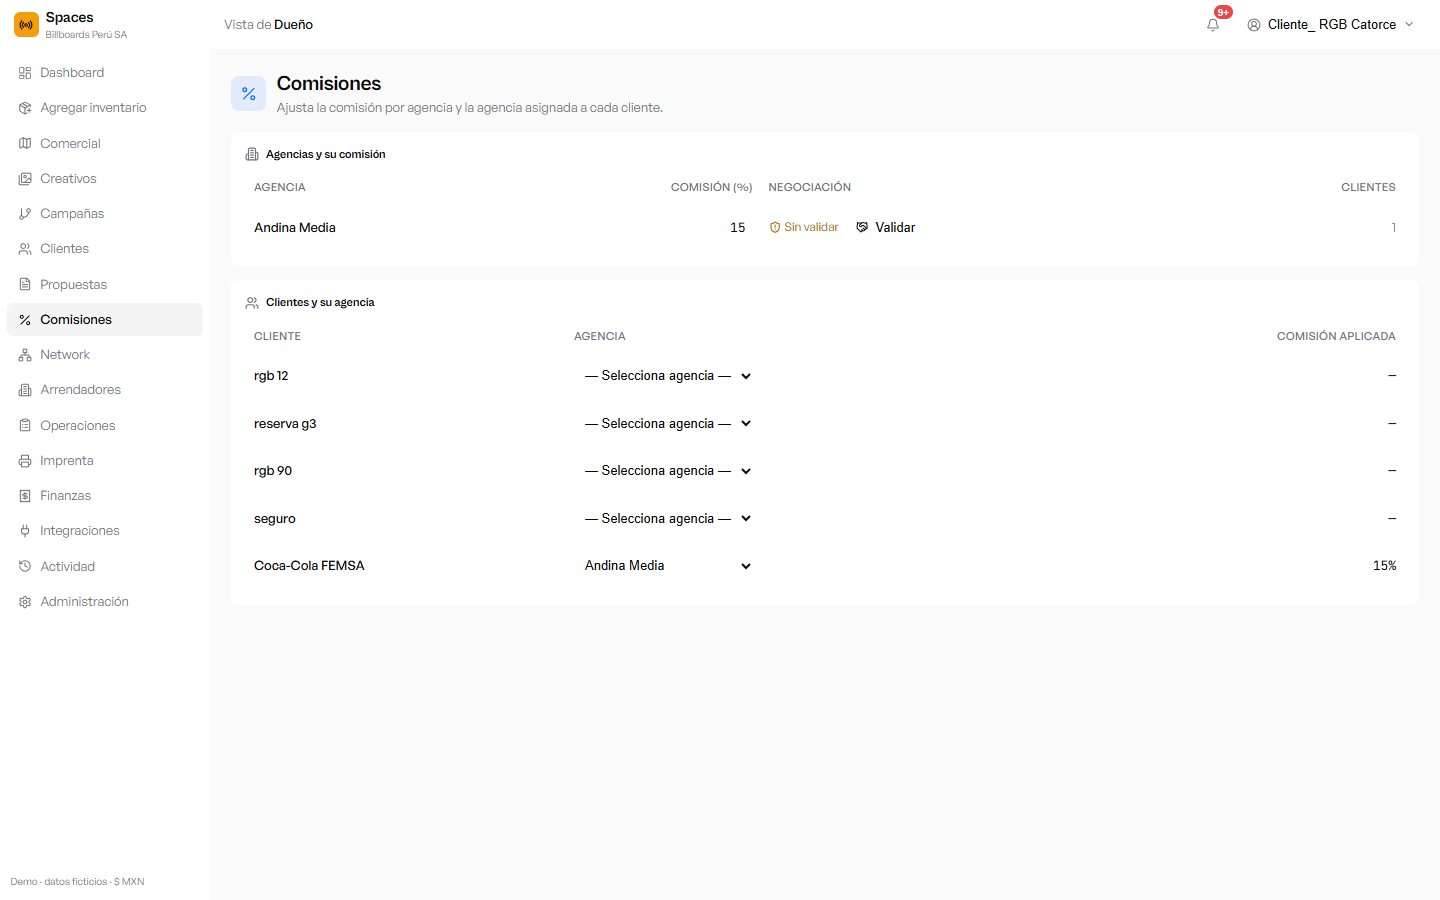
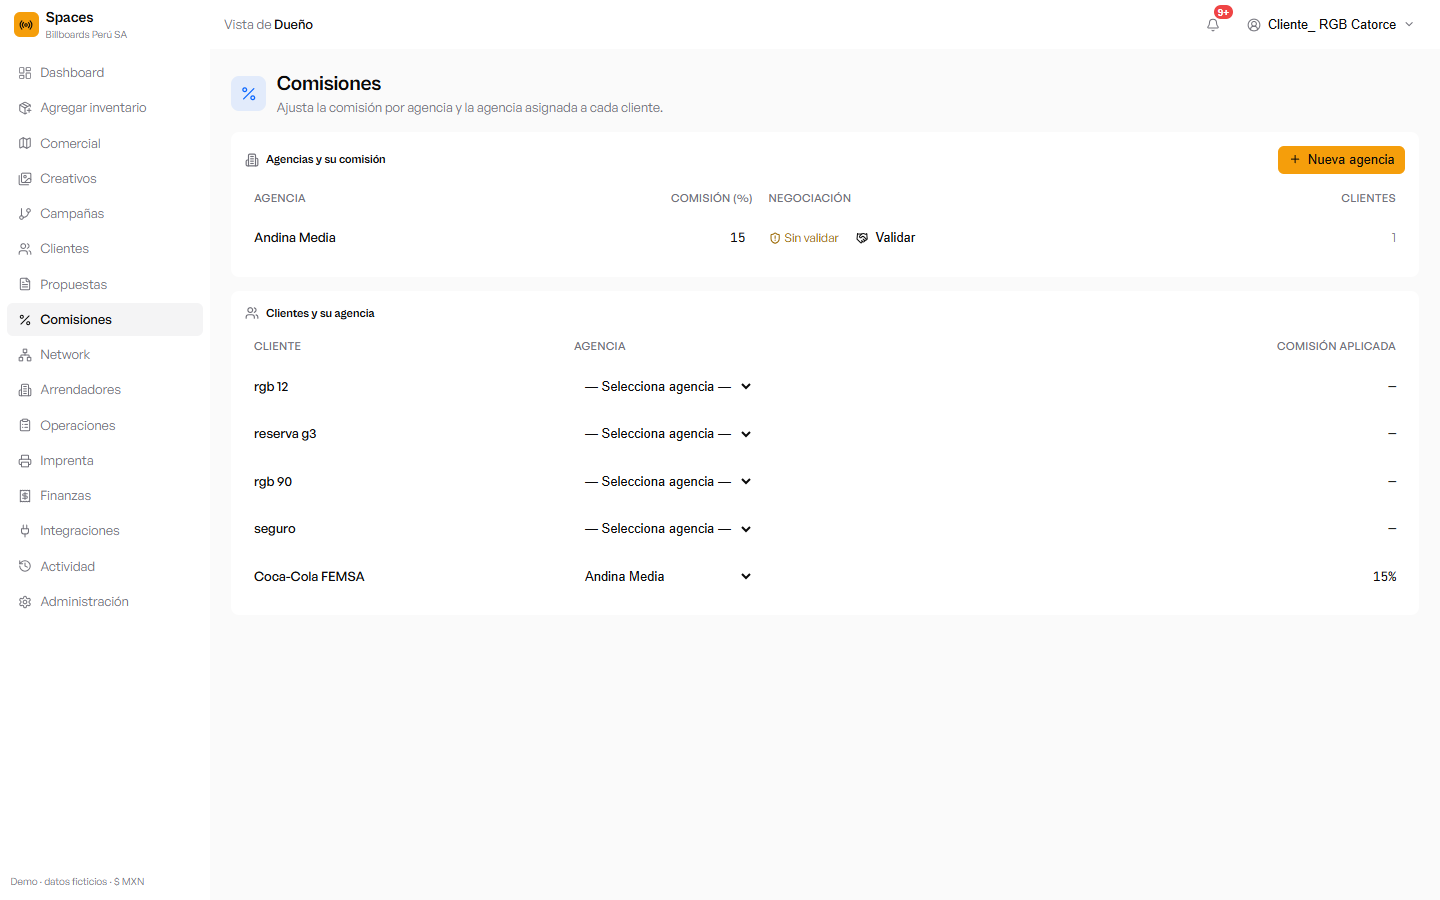
feat(demo): alta de agencia desde la pantalla de Comisiones
Boton 'Nueva agencia' + dialogo: nombre, comision (%) y negociacion (si/no +
validada + nota). Crea un cliente tipo AGENCIA via crearClienteApi. Manual y
captura actualizados.

diff --git a/apps/web/app/demo/(shell)/comisiones/page.tsx b/apps/web/app/demo/(shell)/comisiones/page.tsx
@@ -1,17 +1,20 @@
 'use client'
 
 import { useEffect, useState } from 'react'
-import { Percent, Handshake, ShieldCheck, ShieldAlert, Building2, Users } from 'lucide-react'
+import { Percent, Handshake, ShieldCheck, ShieldAlert, Building2, Users, Plus } from 'lucide-react'
 import { Card, CardHeader, CardTitle, CardContent } from '@/components/demo/ui/Card'
 import { Button } from '@/components/demo/ui/Button'
+import { Modal } from '@/components/demo/ui/Modal'
 import { usePuede } from '@/components/demo/shell/SesionContext'
 import { useClientes, type Cliente } from '@/lib/data/client'
-import { actualizarClienteApi } from '@/lib/data/estado-api'
+import { actualizarClienteApi, crearClienteApi } from '@/lib/data/estado-api'
 
 const inputCls =
   'h-8 w-20 rounded border border-border-strong bg-surface px-2 text-right text-[13px] text-ink outline-none focus-visible:ring-2 focus-visible:ring-accent'
 const selectCls =
   'h-8 rounded border border-border-strong bg-surface px-2 text-[13px] text-ink outline-none focus-visible:ring-2 focus-visible:ring-accent'
+const fieldCls =
+  'h-9 w-full rounded border border-border-strong bg-surface px-3 text-[13px] text-ink outline-none focus-visible:ring-2 focus-visible:ring-accent'
 
 // Pantalla de ajuste de comisiones: la comisión es por AGENCIA. Aquí se ajusta
 // la comisión de cada agencia (y su negociación) y se asigna la agencia a cada
@@ -19,6 +22,7 @@ const selectCls =
 export default function ComisionesPage() {
   const clientes = useClientes()
   const puede = usePuede('comercial', 'crear')
+  const [nuevaOpen, setNuevaOpen] = useState(false)
 
   if (!clientes) {
     return <div className="h-64 w-full animate-pulse rounded-md bg-surface-2" />
@@ -43,14 +47,21 @@ export default function ComisionesPage() {
 
       {/* Agencias: comisión + negociación */}
       <Card>
-        <CardHeader className="flex flex-row items-center gap-2">
-          <Building2 className="h-4 w-4 text-muted" />
-          <CardTitle>Agencias y su comisión</CardTitle>
+        <CardHeader className="flex flex-row items-center justify-between gap-2">
+          <div className="flex items-center gap-2">
+            <Building2 className="h-4 w-4 text-muted" />
+            <CardTitle>Agencias y su comisión</CardTitle>
+          </div>
+          {puede && (
+            <Button size="sm" onClick={() => setNuevaOpen(true)}>
+              <Plus className="h-3.5 w-3.5" /> Nueva agencia
+            </Button>
+          )}
         </CardHeader>
         <CardContent>
           {agencias.length === 0 ? (
             <p className="text-[13px] text-muted">
-              No hay clientes tipo «Agencia». Crea uno en Clientes para ajustar su comisión.
+              Aún no hay agencias. Usa «Nueva agencia» para crear una.
             </p>
           ) : (
             <div className="overflow-x-auto">
@@ -108,7 +119,100 @@ export default function ComisionesPage() {
           )}
         </CardContent>
       </Card>
+
+      {nuevaOpen && <NuevaAgenciaDialog onClose={() => setNuevaOpen(false)} />}
     </div>
+  )
+}
+
+// ─── Alta de agencia (cliente tipo AGENCIA) ──────────────────────────────────
+function NuevaAgenciaDialog({ onClose }: { onClose: () => void }) {
+  const [nombre, setNombre] = useState('')
+  const [comision, setComision] = useState('0')
+  const [tieneNeg, setTieneNeg] = useState(false)
+  const [negValidada, setNegValidada] = useState(false)
+  const [nota, setNota] = useState('')
+  const [guardando, setGuardando] = useState(false)
+  const [error, setError] = useState<string | null>(null)
+
+  async function guardar() {
+    if (!nombre.trim()) return
+    setGuardando(true)
+    setError(null)
+    try {
+      await crearClienteApi({
+        nombre: nombre.trim(),
+        tipo: 'AGENCIA',
+        comisionAgenciaPct: Number(comision) || 0,
+        tieneNegociacion: tieneNeg,
+        negociacionValidada: tieneNeg ? negValidada : false,
+        negociacionNota: tieneNeg ? (nota.trim() || null) : null,
+      })
+      onClose()
+    } catch (e) {
+      setError(e instanceof Error ? e.message : 'No se pudo crear la agencia')
+      setGuardando(false)
+    }
+  }
+
+  return (
+    <Modal
+      open
+      onOpenChange={(v) => !v && onClose()}
+      title="Nueva agencia"
+      subtitle="Alta de cliente tipo Agencia con su comisión"
+      footer={
+        <div className="flex items-center justify-between">
+          {error ? <span className="text-[12px] text-error">{error}</span> : <span />}
+          <div className="flex gap-2">
+            <Button variant="secondary" size="sm" onClick={onClose}>Cancelar</Button>
+            <Button size="sm" disabled={!nombre.trim() || guardando} onClick={guardar}>
+              {guardando ? 'Guardando…' : 'Crear agencia'}
+            </Button>
+          </div>
+        </div>
+      }
+    >
+      <div className="space-y-3">
+        <label className="block">
+          <span className="mb-1 block text-[12px] font-medium text-ink">Nombre de la agencia</span>
+          <input className={fieldCls} value={nombre} onChange={(e) => setNombre(e.target.value)} autoFocus placeholder="p. ej. Andina Media" />
+        </label>
+        <label className="block">
+          <span className="mb-1 block text-[12px] font-medium text-ink">Comisión de la agencia (%)</span>
+          <input className={`demo-num ${fieldCls}`} value={comision} onChange={(e) => setComision(e.target.value)} placeholder="0" />
+        </label>
+
+        <div className="rounded-md border border-border bg-surface-2 p-3">
+          <label className="flex items-center gap-2 text-[13px] text-ink">
+            <input
+              type="checkbox"
+              checked={tieneNeg}
+              onChange={(e) => { setTieneNeg(e.target.checked); if (!e.target.checked) setNegValidada(false) }}
+              className="h-4 w-4 accent-[var(--accent)]"
+            />
+            ¿Hay negociación con la agencia?
+          </label>
+          {tieneNeg && (
+            <div className="mt-3 space-y-2.5">
+              <textarea
+                className="min-h-[56px] w-full rounded border border-border-strong bg-surface px-3 py-2 text-[13px] text-ink outline-none focus-visible:ring-2 focus-visible:ring-accent"
+                value={nota}
+                onChange={(e) => setNota(e.target.value)}
+                placeholder="Términos negociados (comisión especial, condiciones de pago…)"
+              />
+              <label className="flex items-start gap-2 text-[13px]">
+                <input type="checkbox" checked={negValidada} onChange={(e) => setNegValidada(e.target.checked)} className="mt-0.5 h-4 w-4 accent-[var(--accent)]" />
+                <span>
+                  <span className="font-medium text-ink">Negociación validada</span>
+                  <span className="mt-0.5 block text-[11px] text-muted">Sin validar, no se pueden crear ni aprobar propuestas con esta agencia.</span>
+                </span>
+              </label>
+            </div>
+          )}
+        </div>
+      </div>
+    </Modal>
   )
 }
 

diff --git a/MANUAL_USUARIO_ACTUAL.md b/MANUAL_USUARIO_ACTUAL.md
@@ -79,6 +79,7 @@ Catálogo con datos fiscales (RFC, razón social, régimen, CP, uso CFDI) e **IV
 
 Pantalla dedicada para **ajustar la comisión** en un solo lugar:
 
+- **Nueva agencia:** botón para dar de alta una agencia (cliente tipo Agencia) con su **comisión** y, si aplica, su **negociación**, sin salir de esta pantalla.
 - **Agencias y su comisión:** edita la **comisión (%)** de cada agencia (escribe el valor y **Guardar**). Muestra el estado de la **negociación** con un botón **Validar** (o *Quitar*) y cuántos clientes tiene asociados.
 - **Clientes y su agencia:** asigna a cada cliente directo su **agencia**; la columna **Comisión aplicada** muestra la comisión que hereda de esa agencia.
 